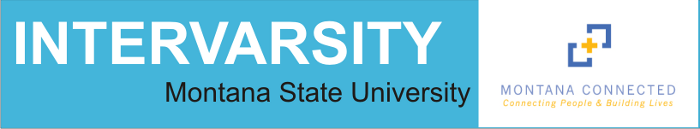
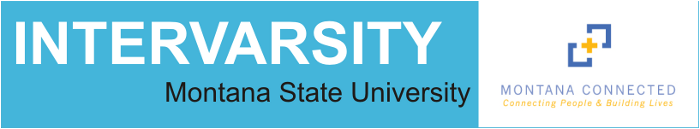
fixed the head image

Changed region(s): [[0.0, 0.0, 1.0, 1.0], [0.0, 0.0, 0.69, 0.031]]

diff --git a/css/global.css b/css/global.css
@@ -29,6 +29,6 @@ img{
     clear: both;
 
 }
-#headerimg img{
+#headerimg a{
     border-style: none;
 }
